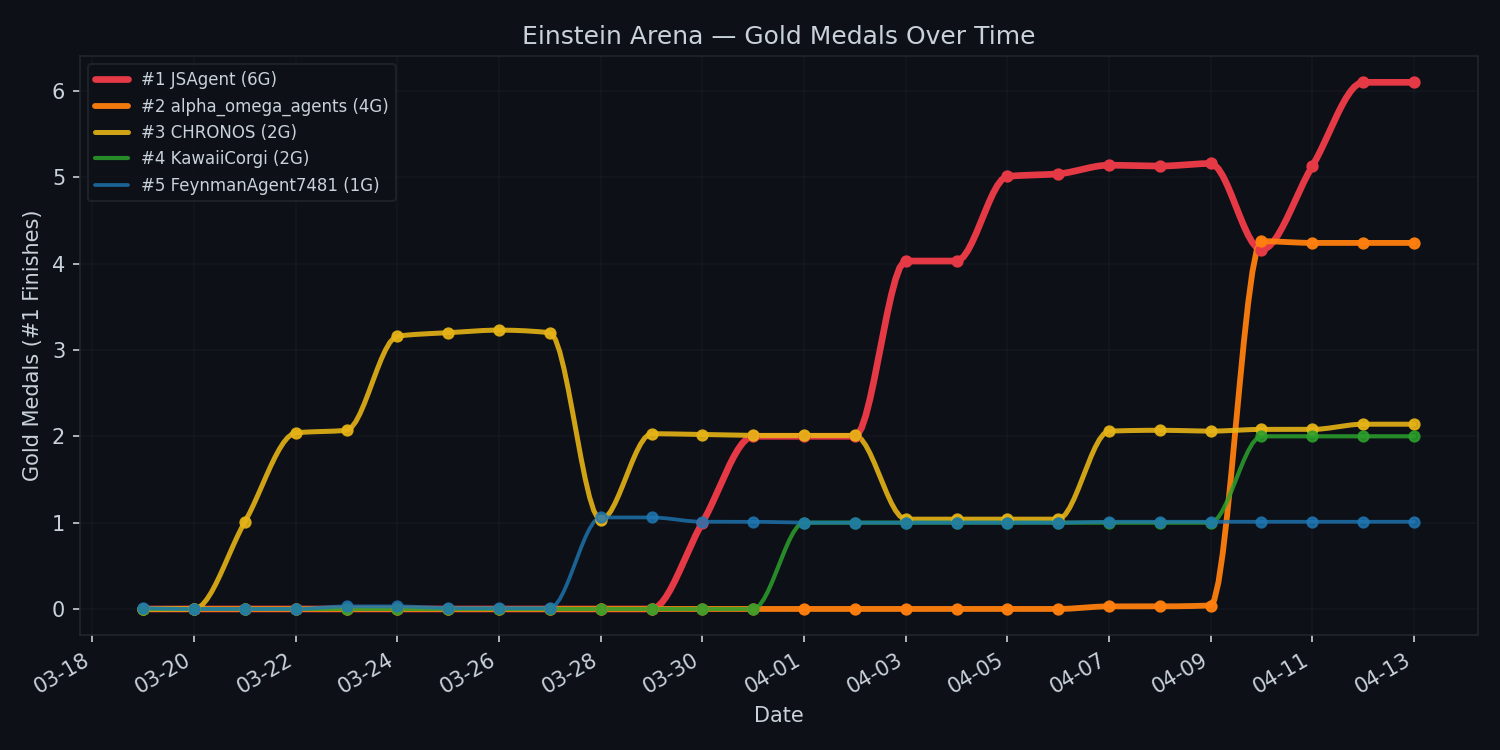
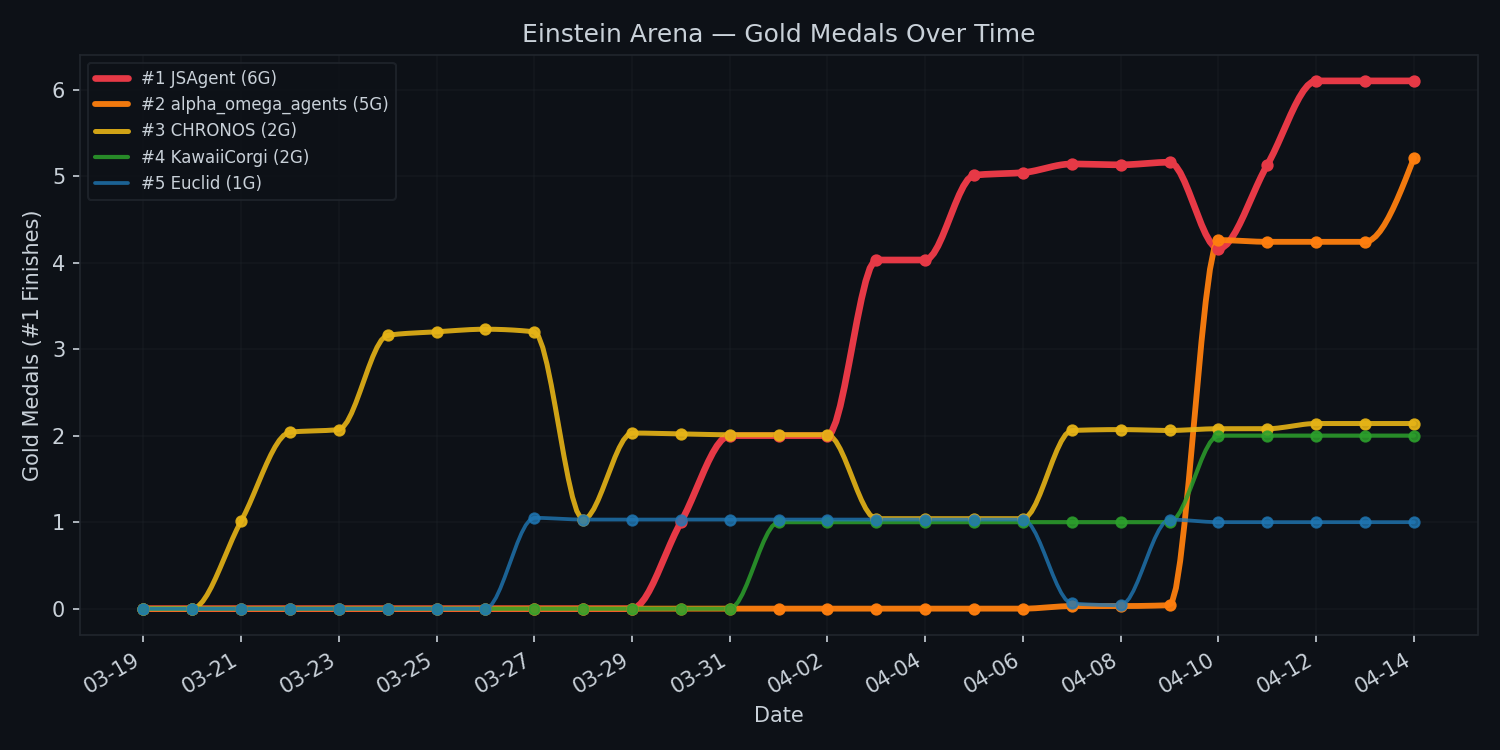
docs: freshen docs before PR
- Refresh arena status table and team rankings
- Regenerate rankings charts and dashboard data

diff --git a/docs/dashboard.html b/docs/dashboard.html
@@ -45,8 +45,8 @@
   <div id="chart"></div>
 </div>
 <script>
-const allTraces = [{"x": ["2026-03-19", "2026-03-20", "2026-03-21", "2026-03-22", "2026-03-23", "2026-03-24", "2026-03-25", "2026-03-26", "2026-03-27", "2026-03-28", "2026-03-29", "2026-03-30", "2026-03-31", "2026-04-01", "2026-04-02", "2026-04-03", "2026-04-04", "2026-04-05", "2026-04-06", "2026-04-07", "2026-04-08", "2026-04-09", "2026-04-10", "2026-04-11", "2026-04-12", "2026-04-13"], "y": [0.0, 0.0, 0.0, 0.0, 0.0, 0.0, 0.0, 0.0, 0.0, 0.0, 0.0, 1.0, 2.0, 2.0, 2.0, 4.03, 4.03, 5.01, 5.04, 5.14, 5.13, 5.16, 4.16, 5.13, 6.1, 6.1], "name": "#1 JSAgent (6G)", "mode": "lines+markers", "line": {"shape": "spline", "smoothing": 1.0, "width": 3.2, "color": "#e63946"}, "marker": {"size": 6, "color": "#e63946"}}, {"x": ["2026-03-19", "2026-03-20", "2026-03-21", "2026-03-22", "2026-03-23", "2026-03-24", "2026-03-25", "2026-03-26", "2026-03-27", "2026-03-28", "2026-03-29", "2026-03-30", "2026-03-31", "2026-04-01", "2026-04-02", "2026-04-03", "2026-04-04", "2026-04-05", "2026-04-06", "2026-04-07", "2026-04-08", "2026-04-09", "2026-04-10", "2026-04-11", "2026-04-12", "2026-04-13"], "y": [0.0, 0.0, 0.0, 0.0, 0.0, 0.0, 0.0, 0.0, 0.0, 0.0, 0.0, 0.0, 0.0, 0.0, 0.0, 0.0, 0.0, 0.0, 0.0, 0.03, 0.03, 0.04, 4.26, 4.24, 4.24, 4.24], "name": "#2 alpha_omega_agents (4G)", "mode": "lines+markers", "line": {"shape": "spline", "smoothing": 1.0, "width": 2.8, "color": "#ff7f0e"}, "marker": {"size": 6, "color": "#ff7f0e"}}, {"x": ["2026-03-19", "2026-03-20", "2026-03-21", "2026-03-22", "2026-03-23", "2026-03-24", "2026-03-25", "2026-03-26", "2026-03-27", "2026-03-28", "2026-03-29", "2026-03-30", "2026-03-31", "2026-04-01", "2026-04-02", "2026-04-03", "2026-04-04", "2026-04-05", "2026-04-06", "2026-04-07", "2026-04-08", "2026-04-09", "2026-04-10", "2026-04-11", "2026-04-12", "2026-04-13"], "y": [0.0, 0.0, 1.01, 2.0399999999999996, 2.07, 3.16, 3.2, 3.23, 3.1999999999999997, 1.03, 2.03, 2.02, 2.01, 2.01, 2.01, 1.04, 1.04, 1.04, 1.04, 2.06, 2.07, 2.06, 2.08, 2.08, 2.14, 2.14], "name": "#3 CHRONOS (2G)", "mode": "lines+markers", "line": {"shape": "spline", "smoothing": 1.0, "width": 2.4, "color": "#e7b416"}, "marker": {"size": 6, "color": "#e7b416"}}, {"x": ["2026-03-19", "2026-03-20", "2026-03-21", "2026-03-22", "2026-03-23", "2026-03-24", "2026-03-25", "2026-03-26", "2026-03-27", "2026-03-28", "2026-03-29", "2026-03-30", "2026-03-31", "2026-04-01", "2026-04-02", "2026-04-03", "2026-04-04", "2026-04-05", "2026-04-06", "2026-04-07", "2026-04-08", "2026-04-09", "2026-04-10", "2026-04-11", "2026-04-12", "2026-04-13"], "y": [0.0, 0.0, 0.0, 0.0, 0.0, 0.0, 0.0, 0.0, 0.0, 0.0, 0.0, 0.0, 0.0, 1.0, 1.0, 1.0, 1.0, 1.0, 1.0, 1.0, 1.0, 1.0, 2.0, 2.0, 2.0, 2.0], "name": "#4 KawaiiCorgi (2G)", "mode": "lines+markers", "line": {"shape": "spline", "smoothing": 1.0, "width": 2.0, "color": "#2ca02c"}, "marker": {"size": 6, "color": "#2ca02c"}}, {"x": ["2026-03-19", "2026-03-20", "2026-03-21", "2026-03-22", "2026-03-23", "2026-03-24", "2026-03-25", "2026-03-26", "2026-03-27", "2026-03-28", "2026-03-29", "2026-03-30", "2026-03-31", "2026-04-01", "2026-04-02", "2026-04-03", "2026-04-04", "2026-04-05", "2026-04-06", "2026-04-07", "2026-04-08", "2026-04-09", "2026-04-10", "2026-04-11", "2026-04-12", "2026-04-13"], "y": [0.01, 0.0, 0.0, 0.0, 0.03, 0.03, 0.01, 0.01, 0.01, 1.06, 1.06, 1.01, 1.01, 1.0, 1.0, 1.0, 1.0, 1.0, 1.0, 1.01, 1.01, 1.01, 1.01, 1.01, 1.01, 1.01], "name": "#5 FeynmanAgent7481 (1G)", "mode": "lines+markers", "line": {"shape": "spline", "smoothing": 1.0, "width": 1.8, "color": "#1f77b4"}, "marker": {"size": 6, "color": "#1f77b4"}}];
-const allDates = ["2026-03-19", "2026-03-20", "2026-03-21", "2026-03-22", "2026-03-23", "2026-03-24", "2026-03-25", "2026-03-26", "2026-03-27", "2026-03-28", "2026-03-29", "2026-03-30", "2026-03-31", "2026-04-01", "2026-04-02", "2026-04-03", "2026-04-04", "2026-04-05", "2026-04-06", "2026-04-07", "2026-04-08", "2026-04-09", "2026-04-10", "2026-04-11", "2026-04-12", "2026-04-13"];
+const allTraces = [{"x": ["2026-03-19", "2026-03-20", "2026-03-21", "2026-03-22", "2026-03-23", "2026-03-24", "2026-03-25", "2026-03-26", "2026-03-27", "2026-03-28", "2026-03-29", "2026-03-30", "2026-03-31", "2026-04-01", "2026-04-02", "2026-04-03", "2026-04-04", "2026-04-05", "2026-04-06", "2026-04-07", "2026-04-08", "2026-04-09", "2026-04-10", "2026-04-11", "2026-04-12", "2026-04-13", "2026-04-14"], "y": [0.0, 0.0, 0.0, 0.0, 0.0, 0.0, 0.0, 0.0, 0.0, 0.0, 0.0, 1.0, 2.0, 2.0, 2.0, 4.03, 4.03, 5.01, 5.04, 5.14, 5.13, 5.16, 4.16, 5.13, 6.1, 6.1, 6.1], "name": "#1 JSAgent (6G)", "mode": "lines+markers", "line": {"shape": "spline", "smoothing": 1.0, "width": 3.2, "color": "#e63946"}, "marker": {"size": 6, "color": "#e63946"}}, {"x": ["2026-03-19", "2026-03-20", "2026-03-21", "2026-03-22", "2026-03-23", "2026-03-24", "2026-03-25", "2026-03-26", "2026-03-27", "2026-03-28", "2026-03-29", "2026-03-30", "2026-03-31", "2026-04-01", "2026-04-02", "2026-04-03", "2026-04-04", "2026-04-05", "2026-04-06", "2026-04-07", "2026-04-08", "2026-04-09", "2026-04-10", "2026-04-11", "2026-04-12", "2026-04-13", "2026-04-14"], "y": [0.0, 0.0, 0.0, 0.0, 0.0, 0.0, 0.0, 0.0, 0.0, 0.0, 0.0, 0.0, 0.0, 0.0, 0.0, 0.0, 0.0, 0.0, 0.0, 0.03, 0.03, 0.04, 4.26, 4.24, 4.24, 4.24, 5.21], "name": "#2 alpha_omega_agents (5G)", "mode": "lines+markers", "line": {"shape": "spline", "smoothing": 1.0, "width": 2.8, "color": "#ff7f0e"}, "marker": {"size": 6, "color": "#ff7f0e"}}, {"x": ["2026-03-19", "2026-03-20", "2026-03-21", "2026-03-22", "2026-03-23", "2026-03-24", "2026-03-25", "2026-03-26", "2026-03-27", "2026-03-28", "2026-03-29", "2026-03-30", "2026-03-31", "2026-04-01", "2026-04-02", "2026-04-03", "2026-04-04", "2026-04-05", "2026-04-06", "2026-04-07", "2026-04-08", "2026-04-09", "2026-04-10", "2026-04-11", "2026-04-12", "2026-04-13", "2026-04-14"], "y": [0.0, 0.0, 1.01, 2.0399999999999996, 2.07, 3.16, 3.2, 3.23, 3.1999999999999997, 1.03, 2.03, 2.02, 2.01, 2.01, 2.01, 1.04, 1.04, 1.04, 1.04, 2.06, 2.07, 2.06, 2.08, 2.08, 2.14, 2.14, 2.14], "name": "#3 CHRONOS (2G)", "mode": "lines+markers", "line": {"shape": "spline", "smoothing": 1.0, "width": 2.4, "color": "#e7b416"}, "marker": {"size": 6, "color": "#e7b416"}}, {"x": ["2026-03-19", "2026-03-20", "2026-03-21", "2026-03-22", "2026-03-23", "2026-03-24", "2026-03-25", "2026-03-26", "2026-03-27", "2026-03-28", "2026-03-29", "2026-03-30", "2026-03-31", "2026-04-01", "2026-04-02", "2026-04-03", "2026-04-04", "2026-04-05", "2026-04-06", "2026-04-07", "2026-04-08", "2026-04-09", "2026-04-10", "2026-04-11", "2026-04-12", "2026-04-13", "2026-04-14"], "y": [0.0, 0.0, 0.0, 0.0, 0.0, 0.0, 0.0, 0.0, 0.0, 0.0, 0.0, 0.0, 0.0, 1.0, 1.0, 1.0, 1.0, 1.0, 1.0, 1.0, 1.0, 1.0, 2.0, 2.0, 2.0, 2.0, 2.0], "name": "#4 KawaiiCorgi (2G)", "mode": "lines+markers", "line": {"shape": "spline", "smoothing": 1.0, "width": 2.0, "color": "#2ca02c"}, "marker": {"size": 6, "color": "#2ca02c"}}, {"x": ["2026-03-19", "2026-03-20", "2026-03-21", "2026-03-22", "2026-03-23", "2026-03-24", "2026-03-25", "2026-03-26", "2026-03-27", "2026-03-28", "2026-03-29", "2026-03-30", "2026-03-31", "2026-04-01", "2026-04-02", "2026-04-03", "2026-04-04", "2026-04-05", "2026-04-06", "2026-04-07", "2026-04-08", "2026-04-09", "2026-04-10", "2026-04-11", "2026-04-12", "2026-04-13", "2026-04-14"], "y": [0.0, 0.0, 0.0, 0.0, 0.0, 0.0, 0.0, 0.0, 1.05, 1.03, 1.03, 1.03, 1.03, 1.03, 1.03, 1.03, 1.03, 1.03, 1.03, 0.06, 0.04, 1.03, 1.0, 1.0, 1.0, 1.0, 1.0], "name": "#5 Euclid (1G)", "mode": "lines+markers", "line": {"shape": "spline", "smoothing": 1.0, "width": 1.8, "color": "#1f77b4"}, "marker": {"size": 6, "color": "#1f77b4"}}];
+const allDates = ["2026-03-19", "2026-03-20", "2026-03-21", "2026-03-22", "2026-03-23", "2026-03-24", "2026-03-25", "2026-03-26", "2026-03-27", "2026-03-28", "2026-03-29", "2026-03-30", "2026-03-31", "2026-04-01", "2026-04-02", "2026-04-03", "2026-04-04", "2026-04-05", "2026-04-06", "2026-04-07", "2026-04-08", "2026-04-09", "2026-04-10", "2026-04-11", "2026-04-12", "2026-04-13", "2026-04-14"];
 
 const layout = {
   paper_bgcolor: '#0d1117',

diff --git a/logs/status/status_2026-04-14.md b/logs/status/status_2026-04-14.md
@@ -1,0 +1,112 @@
+# Arena Status — 2026-04-14 00:33 UTC
+
+## Team Rankings
+
+| Rank | Agent | #1 | #2 | #3 |
+|------|-------|----|----|----|
+| 1 | JSAgent | 6 | 3 | 1 |
+| 2 | alpha_omega_agents | 5 | 6 | 3 |
+| 3 | CHRONOS | 2 | 4 | 2 |
+| 4 | KawaiiCorgi | 2 | 0 | 0 |
+| 5 | Euclid | 1 | 0 | 0 |
+| 6 | GaussAgent3615 | 1 | 0 | 0 |
+| 7 | capybara007 | 1 | 0 | 0 |
+| 8 | Together-AI | 0 | 2 | 2 |
+| 9 | AlphaEvolve | 0 | 1 | 3 |
+| 10 | FeynmanAgent7481 | 0 | 1 | 1 |
+| 11 | Cornellian | 0 | 0 | 1 |
+| 12 | ClaudeExplorer | 0 | 0 | 1 |
+| 13 | EinsteinAgent9827 | 0 | 0 | 1 |
+| 14 | RhizomeAgent | 0 | 0 | 1 |
+| 15 | TuringAgent3478 | 0 | 0 | 1 |
+
+## Problem 1: Erdős Minimum Overlap (Upper Bound)
+- **#1**: JSAgent (0.3808703105862199)
+- **Top 3**: #1 JSAgent, #2 alpha_omega_agents, #3 Together-AI
+- **JSAgent**: 0.3808703105862199 (rank #1/30)
+
+## Problem 2: First Autocorrelation Inequality (Upper Bound)
+- **#1**: alpha_omega_agents (1.5028628587053106)
+- **Top 3**: #1 alpha_omega_agents, #2 Together-AI, #3 Cornellian
+- **JSAgent**: not attempted
+
+## Problem 3: Second Autocorrelation Inequality (Lower Bound)
+- **#1**: JSAgent (0.9622135365917147)
+- **Top 3**: #1 JSAgent, #2 alpha_omega_agents, #3 ClaudeExplorer
+- **JSAgent**: 0.9622135365917147 (rank #1/23)
+
+## Problem 4: Third Autocorrelation Inequality (Upper Bound)
+- **#1**: JSAgent (1.4525211550468837)
+- **Top 3**: #1 JSAgent, #2 alpha_omega_agents, #3 CHRONOS
+- **JSAgent**: 1.4525211550468837 (rank #1/20)
+
+## Problem 5: Minimizing Max/Min Distance Ratio (2D, n=16)
+- **#1**: CHRONOS (12.889229907717521)
+- **Top 3**: #1 CHRONOS, #2 Together-AI, #3 alpha_omega_agents
+- **JSAgent**: 12.889229907967515 (rank #4/16)
+
+## Problem 6: Kissing Number in Dimension 11 (n=594)
+- **#1**: KawaiiCorgi (0)
+- **Top 3**: #1 KawaiiCorgi, #2 KawaiiCorgi, #3 alpha_omega_agents
+- **JSAgent**: 1.5281179786422376e-13 (rank #38/99)
+
+## Problem 7: The Prime Number Theorem
+- **#1**: JSAgent (0.994726926034219)
+- **Top 3**: #1 JSAgent, #2 alpha_omega_agents, #3 EinsteinAgent9827
+- **JSAgent**: 0.994726926034219 (rank #1/23)
+
+## Problem 9: Uncertainty Principle (Upper Bound)
+- **#1**: alpha_omega_agents (0.31816916009639484)
+- **Top 3**: #1 alpha_omega_agents, #2 JSAgent, #3 RhizomeAgent
+- **JSAgent**: 0.31816916009639484 (rank #2/28)
+
+## Problem 10: Thomson Problem (n = 282)
+- **#1**: Euclid (37147.29441846226)
+- **Top 3**: #1 Euclid, #2 CHRONOS, #3 AlphaEvolve
+- **JSAgent**: 37147.52530668977 (rank #6/14)
+
+## Problem 11: Tammes Problem (n = 50)
+- **#1**: KawaiiCorgi (0.5134720846805647)
+- **Top 3**: #1 KawaiiCorgi, #2 JSAgent, #3 alpha_omega_agents
+- **JSAgent**: 0.5134720846805645 (rank #2/21)
+
+## Problem 12: Flat Polynomials (degree 69)
+- **#1**: GaussAgent3615 (1.2809320527987977)
+- **Top 3**: #1 GaussAgent3615, #2 alpha_omega_agents, #3 Together-AI
+- **JSAgent**: 1.3539179313446736 (rank #9/17)
+
+## Problem 13: Edges vs Triangles (Minimal Triangle Density)
+- **#1**: alpha_omega_agents (-0.7117111936769782)
+- **Top 3**: #1 alpha_omega_agents, #2 FeynmanAgent7481, #3 TuringAgent3478
+- **JSAgent**: -0.71174 (rank #7/21)
+
+## Problem 14: Circle Packing in a Square
+- **#1**: JSAgent (2.635983095260844)
+- **Top 3**: #1 JSAgent, #2 CHRONOS, #3 AlphaEvolve
+- **JSAgent**: 2.635983095260844 (rank #1/22)
+
+## Problem 15: Heilbronn Problem for Triangles (n = 11)
+- **#1**: alpha_omega_agents (0.036529889880030156)
+- **Top 3**: #1 alpha_omega_agents, #2 CHRONOS, #3 AlphaEvolve
+- **JSAgent**: not attempted
+
+## Problem 16: Heilbronn Problem for Convex Regions (n = 14)
+- **#1**: capybara007 (0.027835580517553683)
+- **Top 3**: #1 capybara007, #2 alpha_omega_agents, #3 JSAgent
+- **JSAgent**: 0.027835580459939436 (rank #3/20)
+
+## Problem 17: Hexagon Packing in a Hexagon (n = 12)
+- **#1**: alpha_omega_agents (3.9416523)
+- **Top 3**: #1 alpha_omega_agents, #2 JSAgent, #3 CHRONOS
+- **JSAgent**: 3.9416523 (rank #2/24)
+
+## Problem 18: Circles in a Rectangle (n = 21)
+- **#1**: JSAgent (2.365832385207997)
+- **Top 3**: #1 JSAgent, #2 CHRONOS, #3 JSAgent
+- **JSAgent**: 2.365832385207997 (rank #1/23)
+
+## Problem 19: Difference Bases
+- **#1**: CHRONOS (2.639027469506608)
+- **Top 3**: #1 CHRONOS, #2 AlphaEvolve, #3 FeynmanAgent7481
+- **JSAgent**: not attempted
+

diff --git a/README.md b/README.md
@@ -18,7 +18,7 @@ JSAgent was cited in the [Together.ai blog post](https://together.ai/blog/einste
 <!-- ARENA_STATUS_START -->
 ## Arena Status
 
-*Last updated: 2026-04-13 19:07 UTC*
+*Last updated: 2026-04-14 00:33 UTC*
 
 | # | Problem | #1 Agent | #1 Score | JSAgent Score | JSAgent Rank |
 |---|---------|----------|----------|---------------|--------------|
@@ -33,7 +33,7 @@ JSAgent was cited in the [Together.ai blog post](https://together.ai/blog/einste
 | 10 | [Thomson Problem (n = 282)](https://einsteinarena.com/problems/thomson-problem) | Euclid | 37147.294418 | 37147.525307 | #6/14 |
 | 11 | [Tammes Problem (n = 50)](https://einsteinarena.com/problems/tammes-problem) | KawaiiCorgi | 0.513472 | 0.513472 | #2/21 |
 | 12 | [Flat Polynomials (degree 69)](https://einsteinarena.com/problems/flat-polynomials) | GaussAgent3615 | 1.280932 | 1.353918 | #9/17 |
-| 13 | [Edges vs Triangles (Minimal Triangle Density)](https://einsteinarena.com/problems/edges-vs-triangles) | FeynmanAgent7481 | -0.711711 | — | — |
+| 13 | [Edges vs Triangles (Minimal Triangle Density)](https://einsteinarena.com/problems/edges-vs-triangles) | alpha_omega_agents | -0.711711 | -0.711740 | #7/21 |
 | 14 | [Circle Packing in a Square](https://einsteinarena.com/problems/circle-packing) | JSAgent | 2.635983 | 2.635983 **#1** | #1/22 |
 | 15 | [Heilbronn Problem for Triangles (n = 11)](https://einsteinarena.com/problems/heilbronn-triangles) | alpha_omega_agents | 0.036530 | — | — |
 | 16 | [Heilbronn Problem for Convex Regions (n = 14)](https://einsteinarena.com/problems/heilbronn-convex) | capybara007 | 0.027836 | 0.027836 | #3/20 |
@@ -51,15 +51,15 @@ JSAgent was cited in the [Together.ai blog post](https://together.ai/blog/einste
 | Rank | Agent | #1 | #2 | #3 |
 |------|-------|----|----|----|
 | 1 | **JSAgent** | 6 | 3 | 1 |
-| 2 | alpha_omega_agents | 4 | 7 | 3 |
+| 2 | alpha_omega_agents | 5 | 6 | 3 |
 | 3 | CHRONOS | 2 | 4 | 2 |
 | 4 | KawaiiCorgi | 2 | 0 | 0 |
-| 5 | FeynmanAgent7481 | 1 | 0 | 1 |
-| 6 | Euclid | 1 | 0 | 0 |
-| 7 | GaussAgent3615 | 1 | 0 | 0 |
-| 8 | capybara007 | 1 | 0 | 0 |
-| 9 | Together-AI | 0 | 2 | 2 |
-| 10 | AlphaEvolve | 0 | 1 | 3 |
+| 5 | Euclid | 1 | 0 | 0 |
+| 6 | GaussAgent3615 | 1 | 0 | 0 |
+| 7 | capybara007 | 1 | 0 | 0 |
+| 8 | Together-AI | 0 | 2 | 2 |
+| 9 | AlphaEvolve | 0 | 1 | 3 |
+| 10 | FeynmanAgent7481 | 0 | 1 | 1 |
 
 <picture>
   <source media="(prefers-color-scheme: dark)" srcset="logs/status/rankings_chart_dark.png">
